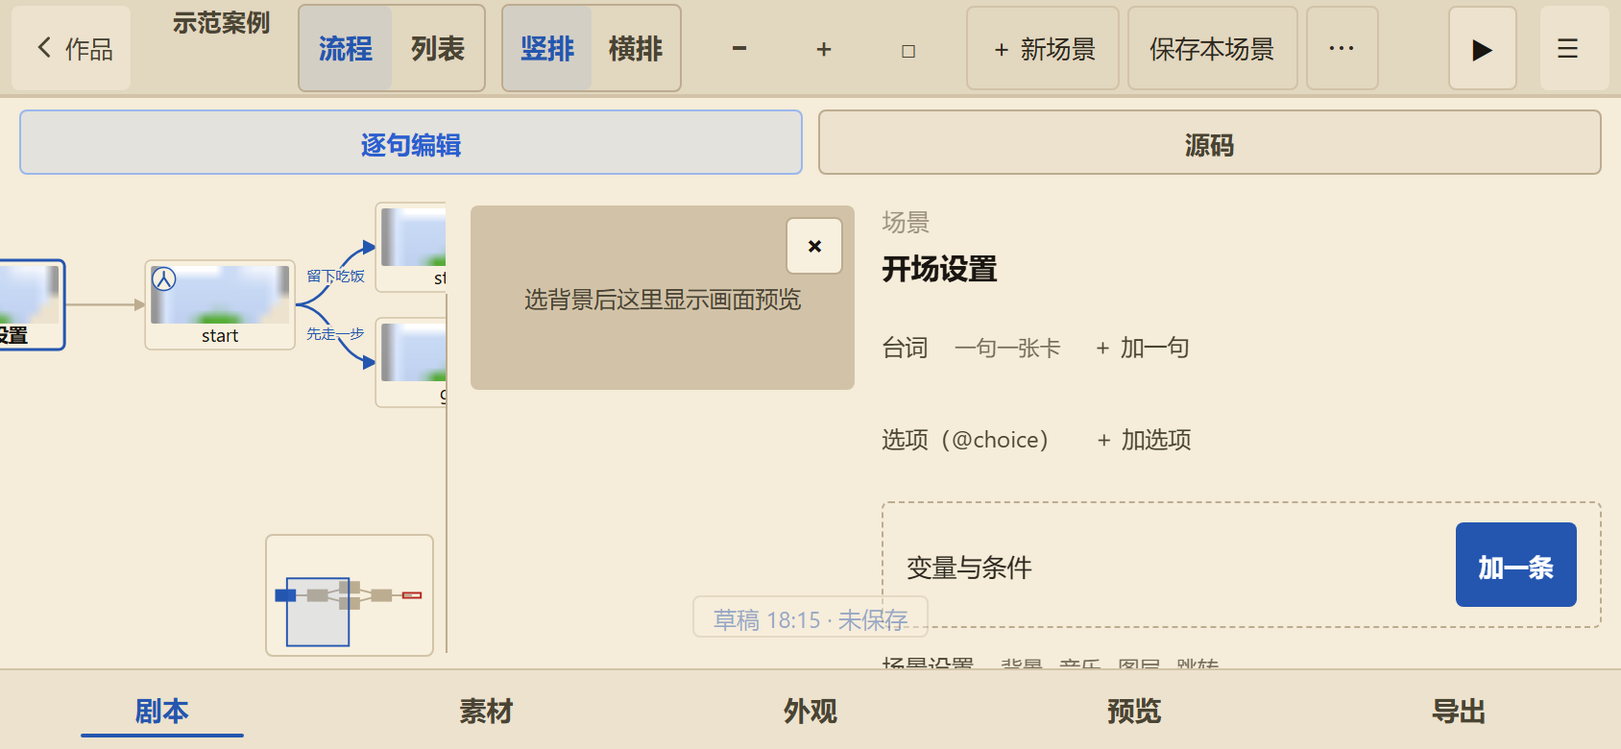
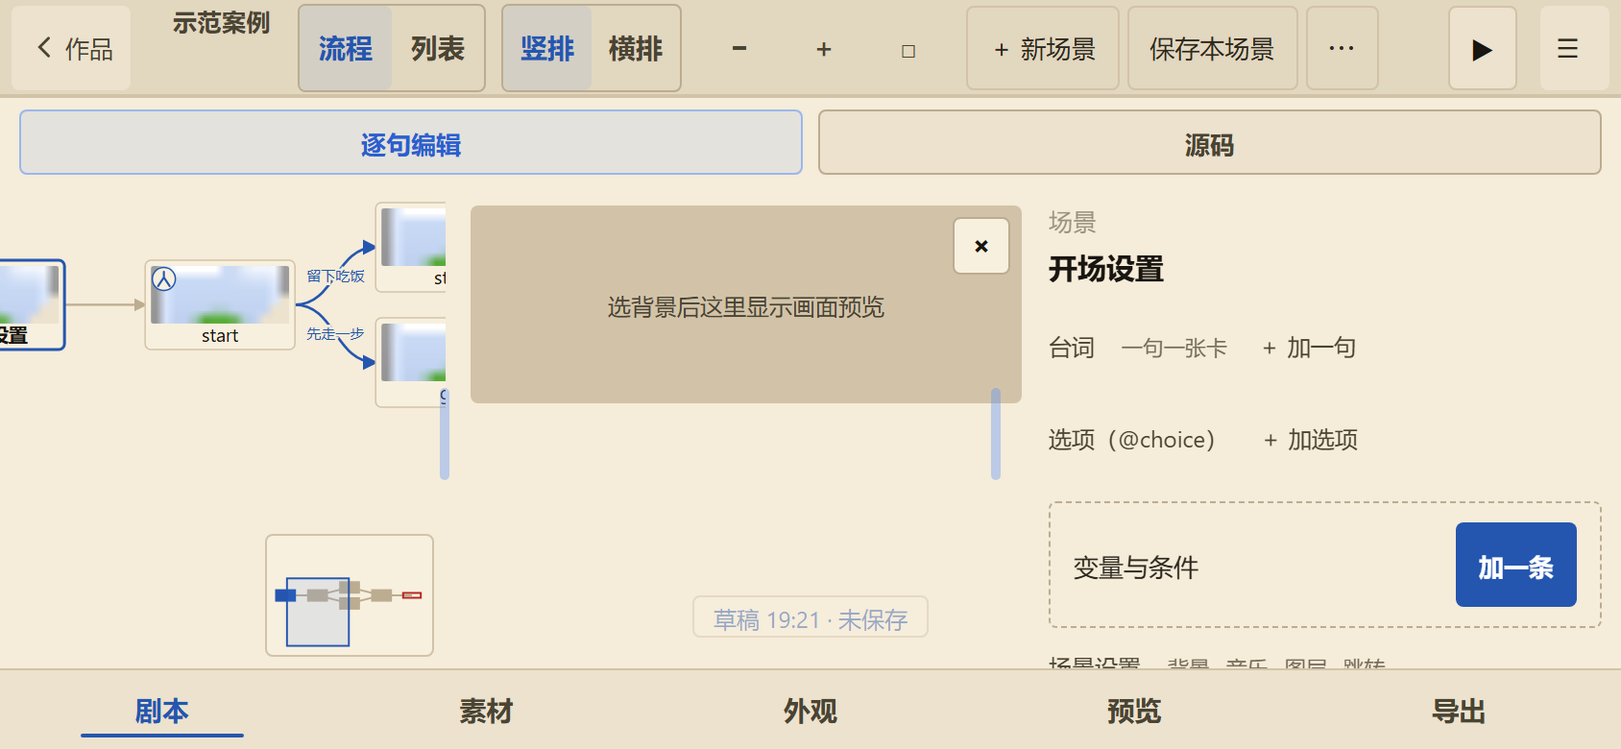
P268 横屏剧本页：左栏和预览两处都能拖宽，把手看得见也按得住（v1.2.68）
用户原话：「场景和预览界面的宽也可以调整，并且可以调整预览窗口的大小比列」
「别的地方的一些窗口也可以发挥主观能动性的调整」「坚决交互问题不要看起来好用起来不好」。

- 预览列宽度独立成 --m-prev（默认 34%，拖过记本机），预览与正文之间加第二条把手；
  列定义改成 var(--m-prev,34%)，不再写死 minmax(170px,34%)。
- 两条把手共用 bindGrip：命中区 22px、touch-action:none（手机上不被滚动/缩放抢）、
  拖动时短条拉长变蓝 + col-resize + 禁选中、双击复位、聚焦后方向键 ±8（Shift ±32）、aria separator。
- 下限有账：预览 ≥170、正文 ≥290；左栏上限从 innerWidth-380 收到 innerWidth-460（预览列也要地方），
  838×390 实测拖到上限正文还剩 253px 台词卡；700×360 左栏最多 240、预览最多 178。
- 空态占位（没选背景）改成跟真舞台同一个高宽比：height:0 + padding-bottom var(--sf-pad,36%)，
  拖宽预览时占位块跟着长高（287→103、322→116），不再是拉宽的空带。
- 预览收起时预览把手一起藏；竖屏两条把手都不出现。

实测（844×390 / 700×360 / 390×844，Playwright 真拖）：prev 287→322→170、rail 232→320、
双击两条都回默认、方向键 287→303 并落盘、stage-off 时预览把手 display:none、三组尺寸 JS 异常 0、溢出审计空。

门禁：pytest 1590 passed / 7 skipped / exit 0（156.15s）、pyright 109=基线 exit 0、探针 26/26 exit 0。

diff --git a/editor/mobile/ui_layout.js b/editor/mobile/ui_layout.js
@@ -34,25 +34,45 @@
     }
   }
 
-  /* ---- P264 横屏分栏：左栏可拖宽、预览可收起、编辑与预览换位 ----
-     用户原话「横屏编辑和预览区换一下位置，预览区可关闭，左边区域收一些可以拖动宽度，自适应做好」。
-     拖动只改 --m-rail，没有任何元素写死 width；收起只给 html 挂 m-stage-off，版式全交给 CSS。 */
-  var RAIL = "myonl:off:railW:v1", STAGE = "myonl:off:stageOff:v1";
+  /* ---- P264/P268 横屏分栏：左栏和预览两处都能拖宽、预览可收起、编辑与预览换位 ----
+     用户原话：「左边区域收一些可以拖动宽度」「场景和预览界面的宽也可以调整」。
+     拖动只改 --m-rail / --m-prev，没有元素写死 width；双击把手复位，方向键 ±8（Shift ±32）。 */
+  var RAIL = "myonl:off:railW:v1", STAGE = "myonl:off:stageOff:v1", PREV = "myonl:off:prevW:v1";
   function railPx() {
     var v = 0; try { v = parseInt(localStorage.getItem(RAIL) || "", 10) || 0; } catch (e) {}
     return v > 0 ? v : 232;
   }
   function stageOff() { try { return localStorage.getItem(STAGE) === "1"; } catch (e) { return false; } }
-  // 左栏最多 320，整块编辑区至少留 380：宽度不够时先压缩左栏，不允许把编辑区挤成一条缝
-  function railMax() { return Math.max(150, Math.min(320, window.innerWidth - 380)); }
+  // 左栏最多 320，整块正文至少留 290（预览列另有下限 170）：宽度不够时先压缩左栏，不允许把正文挤成一条缝
+  function railMax() { return Math.max(150, Math.min(320, window.innerWidth - 460)); }
+  function prevPx() {
+    var v = 0; try { v = parseInt(localStorage.getItem(PREV) || "", 10) || 0; } catch (e) {}
+    return v > 0 ? v : Math.round(window.innerWidth * .34);
+  }
+  // 预览能宽到哪：正文至少 320，且预览框高度不许顶出栏高（高宽比吃 --sf-pad）
+  function padPct() {
+    var v = 0; try { v = parseFloat(getComputedStyle(DE).getPropertyValue("--sf-pad")) || 0; } catch (e) {}
+    return v > 10 && v < 140 ? v : 36;
+  }
+  function prevMax() {
+    var rail = parseInt(DE.style.getPropertyValue("--m-rail"), 10) || railPx();
+    var byBody = window.innerWidth - rail - 290;   // 290 = 正文列下限 + 两侧内边距，实测 844 下正文还剩 253px
+    var byHigh = Math.round((window.innerHeight - 150) * 100 / padPct());
+    return Math.max(170, Math.min(460, byBody, byHigh));
+  }
   function applyPane() {
-    if (!shell()) { chromeSync(false); DE.classList.remove("m-stage-off", "m-graph-on"); DE.style.removeProperty("--m-rail"); gSig = ""; return; }
+    if (!shell()) {
+      chromeSync(false); DE.classList.remove("m-stage-off", "m-graph-on");
+      DE.style.removeProperty("--m-rail"); DE.style.removeProperty("--m-prev"); gSig = ""; return;
+    }
     DE.style.setProperty("--m-rail", Math.min(Math.max(railPx(), 150), railMax()) + "px");
+    DE.style.setProperty("--m-prev", Math.min(Math.max(prevPx(), 170), prevMax()) + "px");
     DE.classList.toggle("m-stage-off", stageOff());
-    // 分栏只在横屏且 ≥700 宽成立（同 @media (orientation:landscape) and (min-width:700px)）；竖屏不许多出手柄和按钮
+    // 分栏只在横屏且 >=700 宽成立（同 @media (orientation:landscape) and (min-width:700px)）；竖屏不许多出手柄和按钮
     var split = window.innerWidth >= 700 && window.innerWidth > window.innerHeight;
-    var g = document.getElementById("mRailGrip"), b = document.getElementById("mStageBtn");
+    var g = document.getElementById("mRailGrip"), b = document.getElementById("mStageBtn"), pg = document.getElementById("mPrevGrip");
     if (g) g.style.display = split ? "" : "none";
+    if (pg) pg.style.display = split && !stageOff() ? "" : "none";
     if (b) {
       b.style.display = split ? "" : "none";
       b.textContent = stageOff() ? "\u9884\u89C8" : "\u00D7";
@@ -64,29 +84,61 @@
     try { localStorage.setItem(STAGE, stageOff() ? "0" : "1"); } catch (e) {}
     applyPane();
   }
+  // 两条把手同一套行为：拖、双击复位、方向键微调；命中区 22px，里头一颗 4x44 的可见短条
+  function bindGrip(g, page, kind) {
+    var rail = kind === "rail", prop = rail ? "--m-rail" : "--m-prev", key = rail ? RAIL : PREV;
+    g.setAttribute("role", "separator"); g.setAttribute("aria-orientation", "vertical");
+    g.setAttribute("tabindex", "0");
+    g.setAttribute("aria-label", rail ? "左栏宽度，拖动调整、双击复位" : "预览宽度，拖动调整、双击复位");
+    function cur() { return parseInt(DE.style.getPropertyValue(prop), 10) || 0; }
+    function lim(w) { return rail ? Math.min(Math.max(w, 150), railMax()) : Math.min(Math.max(w, 170), prevMax()); }
+    function set(w) { DE.style.setProperty(prop, lim(w) + "px"); }
+    function save() {
+      try { localStorage.setItem(key, String(cur())); } catch (err) {}
+      if (rail) {
+        // 左栏变宽会让预览顶出正文下限：按新的 rail 重新夹一次
+        var pw = parseInt(DE.style.getPropertyValue("--m-prev"), 10) || prevPx();
+        DE.style.setProperty("--m-prev", Math.min(Math.max(pw, 170), prevMax()) + "px");
+        gSig = ""; renderGraph();
+      }
+    }
+    var x0 = 0, base = 0;
+    function move(ev) { set(base + (ev.clientX - x0)); }
+    function up() {
+      page.classList.remove("m-dragging"); g.classList.remove("on");
+      g.removeEventListener("pointermove", move); g.removeEventListener("pointerup", up); g.removeEventListener("pointercancel", up);
+      save();
+    }
+    g.addEventListener("pointerdown", function (e) {
+      e.preventDefault(); e.stopPropagation();
+      try { g.setPointerCapture(e.pointerId); } catch (err) {}
+      page.classList.add("m-dragging"); g.classList.add("on");
+      x0 = e.clientX; base = cur();
+      g.addEventListener("pointermove", move); g.addEventListener("pointerup", up); g.addEventListener("pointercancel", up);
+    });
+    g.addEventListener("dblclick", function (e) {
+      e.preventDefault(); e.stopPropagation();
+      try { localStorage.removeItem(key); } catch (err) {}
+      applyPane(); if (rail) { gSig = ""; renderGraph(); }
+    });
+    g.addEventListener("keydown", function (e) {
+      var d = e.key === "ArrowLeft" ? -1 : e.key === "ArrowRight" ? 1 : 0;
+      if (!d) return;
+      e.preventDefault(); set(cur() + d * (e.shiftKey ? 32 : 8)); save();
+    });
+  }
   function ensurePane() {
     var p = document.getElementById("scenePage");
     if (!p) return;
     if (!document.getElementById("mRailGrip")) {
       var g = document.createElement("div");
-      g.id = "mRailGrip"; g.className = "m-rail-grip"; g.setAttribute("role", "separator");
-      p.appendChild(g);
-      g.addEventListener("pointerdown", function (e) {
-        e.preventDefault(); e.stopPropagation();
-        try { g.setPointerCapture(e.pointerId); } catch (err) {}
-        p.classList.add("m-dragging");
-        function move(ev) {
-          var w = Math.min(Math.max(Math.round(ev.clientX - p.getBoundingClientRect().left), 150), railMax());
-          DE.style.setProperty("--m-rail", w + "px");
-        }
-        function up() {
-          p.classList.remove("m-dragging");
-          g.removeEventListener("pointermove", move); g.removeEventListener("pointerup", up);
-          try { localStorage.setItem(RAIL, String(parseInt(DE.style.getPropertyValue("--m-rail"), 10) || 232)); } catch (err) {}
-          gSig = ""; renderGraph();   // 栏宽变了，流程图按新宽度重新看全局
-        }
-        g.addEventListener("pointermove", move); g.addEventListener("pointerup", up);
-      });
+      g.id = "mRailGrip"; g.className = "m-rail-grip";
+      p.appendChild(g); bindGrip(g, p, "rail");
+    }
+    if (!document.getElementById("mPrevGrip")) {
+      var pg = document.createElement("div");
+      pg.id = "mPrevGrip"; pg.className = "m-prev-grip";
+      p.appendChild(pg); bindGrip(pg, p, "prev");
     }
     var sw = p.querySelector(".sf-stage-wrap");
     if (sw && !document.getElementById("mStageBtn")) {

diff --git a/editor/editor.css b/editor/editor.css
@@ -2999,7 +2999,8 @@ input[type="color"] {
   html.m-shell .scene-page .scene-body { flex-direction: row; }
   html.m-shell .scene-page .scene-list { width: var(--m-rail, 232px); flex: 0 0 var(--m-rail, 232px); border-right: 1px solid var(--surface0); }
   /* P264 换位：预览在左、编辑在右；左栏宽度只吃 --m-rail（拖动由 ui_layout 改写它） */
-  html.m-shell #scenePage.m-detail #sceneForm { grid-template-columns: minmax(170px, 34%) minmax(0, 1fr) !important; }
+  /* P268 预览列宽度只吃 --m-prev（拖动由 ui_layout 的 #mPrevGrip 改写它，默认 34% 宽） */
+  html.m-shell #scenePage.m-detail #sceneForm { grid-template-columns: var(--m-prev, 34%) minmax(0, 1fr) !important; }
   html.m-shell #scenePage #sceneForm > * { grid-column: 2; } html.m-shell #scenePage #sceneForm > .sf-actions { grid-column: 1 / -1; }
   /* P265 预览顶边与正文第一行对齐：P113 给它 sticky top:72px，不滚动也凭空下沉 72px（用户：「不平行」）。
      实测 top 给多少就下沉多少（滚动容器是表单自己，12px 内边距不算在里头），所以必须是 0 */
@@ -3028,8 +3029,15 @@ input[type="color"] {
   html.m-shell.m-stage-off #scenePage.m-detail #sceneForm { grid-template-columns: 34px minmax(0, 1fr) !important; }
   html.m-shell.m-stage-off #scenePage .sf-stage-wrap { position: relative !important; align-self: start !important; height: 96px; min-height: 0; padding: 0 !important; border-right: 1px solid var(--surface1); background: none !important; }
   html.m-shell.m-stage-off #scenePage .sf-stage-wrap > :not(.m-stage-btn), html.m-shell.m-stage-off #scenePage .sf-stage-wrap.m-stage-empty::after { display: none !important; }
-  .m-rail-grip { position: absolute; z-index: 6; left: calc(var(--m-rail, 232px) - 5px); top: 94px; bottom: 0; width: 11px; cursor: col-resize; background: transparent; }
-  .m-rail-grip::after { content: ""; position: absolute; left: 5px; top: 8px; bottom: 8px; width: 1px; background: var(--surface1); }
+  /* P268 两条把手（左栏 / 预览）：命中区 22px，看得见的是中间一颗 4x44 短条；拖动时拉长变蓝。
+     触摸下必须 touch-action:none，否则手指一压就被滚动/缩放抢走（「看起来好用起来不好」） */
+  .m-rail-grip, .m-prev-grip { position: absolute; z-index: 6; top: 52px; bottom: 0; width: 22px; margin-left: -11px; cursor: col-resize; background: transparent; touch-action: none; outline: none; }
+  .m-rail-grip { left: var(--m-rail, 232px); }
+  .m-prev-grip { left: calc(var(--m-rail, 232px) + var(--m-prev, 34%)); }
+  .m-rail-grip::after, .m-prev-grip::after { content: ""; position: absolute; left: 8px; top: 50%; width: 5px; height: 48px; margin-top: -24px; border-radius: 3px; background: rgba(79, 140, 255, .35); transition: height .12s, margin-top .12s, background .12s; }
+  .m-rail-grip:hover::after, .m-prev-grip:hover::after { background: rgba(79, 140, 255, .6); }
+  .m-rail-grip.on::after, .m-prev-grip.on::after { height: 76px; margin-top: -38px; background: rgba(79, 140, 255, .9); }
+  html.m-shell.m-dragging, html.m-shell.m-dragging * { cursor: col-resize !important; user-select: none; }
   .m-stage-btn { position: absolute; right: 6px; top: 6px; z-index: 7; min-width: 30px; height: 30px; padding: 0 8px; border-radius: 4px; border: 1px solid var(--surface1); background: var(--card-bg); color: var(--text); font-size: 14px; line-height: 1; }
   /* P265：收起后竖排的「预览」贴顶，与正文「场景」两个字齐平（原来居中，比「场景」低一截 —— 用户：「不平行」） */
   html.m-shell.m-stage-off .m-stage-btn { position: absolute; inset: 0; width: 100%; height: 100%; min-width: 0; border: 0; border-radius: 0; background: none; color: var(--text); opacity: .6; writing-mode: vertical-rl; text-orientation: upright; letter-spacing: 3px; font-size: 12px; text-align: left; padding: 5px 0 0; }

diff --git a/editor/ui-fix.css b/editor/ui-fix.css
@@ -287,8 +287,10 @@ html.kb-open .m-sheet-body { bottom: var(--kb-h, 0px) !important; }
   #scenePage .sf-stage-hint { display: none; }
   /* 还没选背景时舞台是空的（hint 又被藏了），整块会塌成一个点：
      台词卡顶上突然什么都没有，看不出这里本来该有画面。撑一块占位并把话说清楚。 */
+  /* P268：空态占位也要跟真舞台同一个高宽比，否则把预览拖宽只多出一条空带，
+     用户看不出「宽了以后画面会长高」（拖宽的目的就是看清楚画面） */
   #scenePage .sf-stage-wrap.m-stage-empty {
-    min-height: 96px; position: relative;
+    height: 0; min-height: 0; padding-bottom: var(--sf-pad, 36%); position: relative;
     background: var(--surface0); border-radius: 4px;
   }
   #scenePage .sf-stage-wrap.m-stage-empty .sf-stage { display: none; }

diff --git a/tests/test_p268_pane_widths.py b/tests/test_p268_pane_widths.py
@@ -1,0 +1,69 @@
+"""P268：横屏剧本页左栏与预览两处宽度可拖、双击复位、方向键微调、宽度记住。
+
+用户原话：「场景和预览界面的宽也可以调整，并且可以调整预览窗口的大小比列」「坚决交互问题不要看起来好用起来不好」。
+
+钉住的事（844×390 / 700×360 / 390×844 实测）：
+    1. 预览列宽度只吃 --m-prev（默认 34%，拖过就记本机）；左栏仍是 --m-rail，下限 150、上限 320；
+    2. 两条把手同一套行为：22px 命中区、touch-action:none（否则手机上被滚动/缩放抢走）、双击复位、方向键 ±8（Shift ±32）；
+    3. 预览与正文的下限：预览 ≥170、正文 ≥290（844 下拖到上限，正文还剩 253px 台词卡）；
+    4. 预览收起时预览把手跟着消失；竖屏两条把手都不许出现；
+    5. 空态占位与真舞台同一个高宽比（--sf-pad），拖宽预览要让画面真的长起来。
+"""
+
+from pathlib import Path
+
+import pytest
+
+pytestmark = [pytest.mark.unit]
+
+ROOT = Path(__file__).resolve().parents[1]
+CSS = (ROOT / "editor" / "editor.css").read_text(encoding="utf-8")
+FIX = (ROOT / "editor" / "ui-fix.css").read_text(encoding="utf-8")
+LAYOUT = (ROOT / "editor" / "mobile" / "ui_layout.js").read_text(encoding="utf-8")
+
+
+def test_two_widths_have_own_keys_and_bounds():
+    assert 'var RAIL = "myonl:off:railW:v1", STAGE = "myonl:off:stageOff:v1", PREV = "myonl:off:prevW:v1";' in LAYOUT
+    assert 'try { v = parseInt(localStorage.getItem(PREV) || "", 10) || 0; } catch (e) {}' in LAYOUT
+    assert "return v > 0 ? v : Math.round(window.innerWidth * .34);" in LAYOUT
+    assert "function railMax() { return Math.max(150, Math.min(320, window.innerWidth - 460)); }" in LAYOUT
+    # 正文列下限 290（844 下还剩 253px 台词卡），预览自己 ≥170
+    assert "var byBody = window.innerWidth - rail - 290;" in LAYOUT
+    assert "return Math.max(170, Math.min(460, byBody, byHigh));" in LAYOUT
+    assert 'DE.style.setProperty("--m-prev", Math.min(Math.max(prevPx(), 170), prevMax()) + "px");' in LAYOUT
+
+
+def test_grips_share_one_behaviour():
+    # 一条把手：拖、双击复位、方向键微调
+    assert "function bindGrip(g, page, kind) {" in LAYOUT
+    assert 'var rail = kind === "rail", prop = rail ? "--m-rail" : "--m-prev", key = rail ? RAIL : PREV;' in LAYOUT
+    assert "g.addEventListener(\"dblclick\"," in LAYOUT
+    assert "try { localStorage.removeItem(key); } catch (err) {}" in LAYOUT
+    assert 'var d = e.key === "ArrowLeft" ? -1 : e.key === "ArrowRight" ? 1 : 0;' in LAYOUT
+    assert "set(cur() + d * (e.shiftKey ? 32 : 8)); save();" in LAYOUT
+    assert "g.setAttribute(\"aria-orientation\", \"vertical\");" in LAYOUT
+    assert 'g.id = "mPrevGrip"; pg.className = "m-prev-grip";' in LAYOUT
+    # 预览把手在预览收起 / 竖屏时跟着藏
+    assert 'if (pg) pg.style.display = split && !stageOff() ? "" : "none";' in LAYOUT
+
+
+def test_grip_is_grabbable_on_touch():
+    b = CSS[CSS.index("  .m-rail-grip, .m-prev-grip {"):CSS.index("  html.m-shell.m-dragging")]
+    assert "width: 22px" in b and "margin-left: -11px" in b
+    assert "touch-action: none;" in b
+    assert "top: 52px" in b
+    assert "background: rgba(79, 140, 255, .35);" in b
+    assert ".m-rail-grip.on::after, .m-prev-grip.on::after { height: 76px;" in b
+    assert "html.m-shell.m-dragging, html.m-shell.m-dragging * { cursor: col-resize !important; user-select: none; }" in CSS
+
+
+def test_columns_read_only_the_vars():
+    assert "html.m-shell #scenePage.m-detail #sceneForm { grid-template-columns: var(--m-prev, 34%) minmax(0, 1fr) !important; }" in CSS
+    assert "minmax(170px, 34%)" not in CSS
+    assert ".m-prev-grip { left: calc(var(--m-rail, 232px) + var(--m-prev, 34%)); }" in CSS
+    assert "html.m-shell.m-stage-off #scenePage.m-detail #sceneForm { grid-template-columns: 34px minmax(0, 1fr) !important; }" in CSS
+
+
+def test_empty_stage_follows_ratio():
+    assert "padding-bottom: var(--sf-pad, 36%); position: relative;" in FIX
+    assert "height: 0; min-height: 0; padding-bottom: var(--sf-pad, 36%);" in FIX

diff --git a/tests/test_p173_file_budget.py b/tests/test_p173_file_budget.py
@@ -52,8 +52,8 @@ FILE_BUDGET: dict[str, int] = {
     "editor/editor_tryplay.js": 172, # P201 编辑器内整篇试玩：把导出的成品 HTML 塞进全屏 iframe（与导出共用一条构建），新文件
     "editor/editor_shell.js": 900,   # P197b 底栏「导出」收成导出页 + 素材先关覆盖层 +9（874→883）；P258 say() 加兜底提示条 +10（887→897）——单文件版没有 window.toast，菜单里的导出提示原本全部静默
     "editor/mobile/ui_polish.js": 548,   # P188 主链路收口 + P189 结构两层（模式槽/预览浮条/空态合成/外观入口）+ P190 场景页时序兜底（场景列表重扫 + 空态恢复 + 空舞台占位 + 重扫不弹 toast）；P194 移进 mobile/，路径随搬迁改
-    "editor/ui-fix.css": 325,     # P186 手机外壳 + P188 主链路样式 + P189 结构两层（浮条/场景 order/外观预览置顶）+ P190 空舞台占位（宽度显式给，否则 padding 撑高的舞台会塌成 0），新文件
-    "editor/editor.css": 3441,   # P267 小总览 / 竖横排开关 / 正文行距 +8；P265 流程图样式 / 预览顶边齐平 / 场景页头并进顶栏 +41；P264 横屏把预览挪到左、左栏宽度走 --m-rail、预览收起条 +12   # P179 首页去大卡后布局收口 +5；P185 顶部安全带（挖孔/侧边 cutout）+18；P190 +25 手机场景两态真正分开（#sceneForm 的 id 级 display 压过 class 级 none）+ 横屏列表不再被表单挤成 29px + 横屏右侧不留缝
+    "editor/ui-fix.css": 327,     # P186 手机外壳 + P188 主链路样式 + P189 结构两层（浮条/场景 order/外观预览置顶）+ P190 空舞台占位（宽度显式给，否则 padding 撑高的舞台会塌成 0），新文件；P268 空舞台改成跟真舞台同比例（+3 行：height:0/min-height:0/padding-bottom 一行落点 + 两行注释）
+    "editor/editor.css": 3449,   # P267 小总览 / 竖横排开关 / 正文行距 +8；P265 流程图样式 / 预览顶边齐平 / 场景页头并进顶栏 +41；P264 横屏把预览挪到左、左栏宽度走 --m-rail、预览收起条 +12   # P179 首页去大卡后布局收口 +5；P185 顶部安全带（挖孔/侧边 cutout）+18；P190 +25 手机场景两态真正分开（#sceneForm 的 id 级 display 压过 class 级 none）+ 横屏列表不再被表单挤成 29px + 横屏右侧不留缝
     "engine/editor.py": 3063,   # P199a 加 /editor_lint.js /editor_find.js /i18n.js 三条路由与 serve 方法（+15，3043→3058）；P201 加 /editor_tryplay.js 路由与 _serve_tryplay_js（+5，3058→3063）；P198 新增 /editor_draft.js 路由与 _serve_draft_js（+5，3038→3043）；P184b asset_thumb.js 静态路由 +1；P188 ui_polish.js 路由 +1
     "engine/parser.py": 1080,
 }

diff --git a/tests/test_p264_pane_swap.py b/tests/test_p264_pane_swap.py
@@ -30,7 +30,8 @@ def _block() -> str:
 
 def test_preview_moved_left_editor_right():
     b = _block()
-    assert "html.m-shell #scenePage.m-detail #sceneForm { grid-template-columns: minmax(170px, 34%) minmax(0, 1fr) !important; }" in b
+    # P268：列宽改吃 --m-prev（默认 34%），拖动见 test_p268_pane_widths
+    assert "html.m-shell #scenePage.m-detail #sceneForm { grid-template-columns: var(--m-prev, 34%) minmax(0, 1fr) !important; }" in b
     assert "html.m-shell #scenePage #sceneForm > * { grid-column: 2; }" in b
     assert "html.m-shell #scenePage #sceneForm > .sf-stage-wrap { grid-column: 1; top: 0; }" in b   # P265：top 必须是 0
     # 底部的保存/删除按钮原来横跨两列，换位后仍要横跨，否则会被塞进 170px 的预览列
@@ -51,11 +52,14 @@ def test_preview_collapse_rules():
 
 
 def test_drag_geometry_and_persistence():
-    assert 'var RAIL = "myonl:off:railW:v1", STAGE = "myonl:off:stageOff:v1";' in LAYOUT
+    # P268：加预览列后三样东西要一起存在，否则左栏拖宽会把正文挤没
+    assert 'var RAIL = "myonl:off:railW:v1", STAGE = "myonl:off:stageOff:v1", PREV = "myonl:off:prevW:v1";' in LAYOUT
     assert 'id = "mRailGrip"' in LAYOUT
     assert "Math.min(Math.max(railPx(), 150), railMax())" in LAYOUT
-    assert "Math.max(150, Math.min(320, window.innerWidth - 380))" in LAYOUT
-    assert 'localStorage.setItem(RAIL' in LAYOUT and 'localStorage.setItem(STAGE' in LAYOUT
+    assert "Math.max(150, Math.min(320, window.innerWidth - 460))" in LAYOUT
+    # 宽度都要落到本机：P268 起两条把手共用 setItem(key, cur())，key 是 RAIL / PREV 之一
+    assert 'try { localStorage.setItem(key, String(cur())); } catch (err) {}' in LAYOUT
+    assert 'try { localStorage.setItem(STAGE, stageOff() ? "0" : "1"); } catch (e) {}' in LAYOUT
 
 
 def test_split_gate_hides_controls_outside_landscape():

diff --git a/tests/test_p258_budget_gaps.py b/tests/test_p258_budget_gaps.py
@@ -36,7 +36,7 @@ HOT_FILES: dict[str, int] = {
     "editor/mobile/editor_export.js": 653,
     "editor/mobile/ui-layout.css": 647,
     "editor/mobile/home.css": 348,
-    "editor/mobile/ui_layout.js": 577,  # P267 竖横排 + 小总览 +45；P265 蓝图式流程图 + 页头并进顶栏 +270（新文件接线面大，故放这里）
+    "editor/mobile/ui_layout.js": 629,  # P267 竖横排 + 小总览 +45；P265 蓝图式流程图 + 页头并进顶栏 +270（新文件接线面大，故放这里）
     "editor/mobile/editor_dialog.js": 157,
     "web/myonl-core.js": 412,
     "web/myonl-layout.js": 150,
@@ -48,7 +48,7 @@ HOT_FILES: dict[str, int] = {
 
 # 区总量：允许区内互相搬行，区总不许涨。
 AREA_CAP: dict[str, int] = {
-    "editor/mobile": 5607,
+    "editor/mobile": 5659,
     "web": 4722,
 }
 

diff --git a/tests/test_p265_flow_graph.py b/tests/test_p265_flow_graph.py
@@ -75,7 +75,7 @@ def test_scene_head_merged_into_topbar():
     assert 'var on = !!(split && p && mb && more && p.classList.contains("open"));' in LAYOUT
     assert "for (var i = els.length - 1; i >= 0; i--)" in LAYOUT       # 倒着放回去
     assert "graphSync(); chromeSync(split);" in LAYOUT
-    assert "if (!shell()) { chromeSync(false);" in LAYOUT
+    assert "chromeSync(false); DE.classList.remove(\"m-stage-off\", \"m-graph-on\");" in LAYOUT
     assert "html.m-shell.m-chrome-on #scenePage .cp-head { display: none !important; }" in b
     assert "html.m-shell .menubar > #sceneAdd, html.m-shell .menubar > #sceneSave {" in b
     assert "html.m-shell .menubar > .scn-more {" in b

diff --git a/engine/_version.py b/engine/_version.py
@@ -22,4 +22,4 @@ from __future__ import annotations
 # 与 git tag 完全一致（tag 去掉前缀 v）。三段的 x.y.z，不许带 rc/beta 后缀：
 # Android 的 versionName 与 exe 安装包名都直接拿它，带后缀会导致两台设备显示的
 # 版本号对不上，也违背「exe 与 apk 匹配接轨」。
-VERSION = "1.2.67"
+VERSION = "1.2.68"

diff --git a/README.md b/README.md
@@ -1,7 +1,7 @@
 # MYONL · 手机上的视觉小说编辑器
 
 [![tests](https://github.com/123456789556/myonl/actions/workflows/tests.yml/badge.svg?branch=main)](https://github.com/123456789556/myonl/actions/workflows/tests.yml)
-![Release](https://img.shields.io/badge/release-v1.2.67-blue)
+![Release](https://img.shields.io/badge/release-v1.2.68-blue)
 ![License](https://img.shields.io/badge/License-MIT-green)
 ![Platform](https://img.shields.io/badge/platform-Android%207.0%2B%20%C2%B7%20Windows%20%C2%B7%20Web-19b6a3)
 ![Offline](https://img.shields.io/badge/offline-100%25-2ea44f)
@@ -297,9 +297,9 @@ python tools/pack_apk.py --game dist/single/你的作品.html
 
 ## 装它
 
-**[⬇ 下载 MYONL-v1.2.67.apk](https://github.com/123456789556/myonl/releases/download/v1.2.67/MYONL-v1.2.67.apk)** · 安卓 7.0 以上 · 手机 / 折叠屏 / 平板都能用，横竖屏自适应
+**[⬇ 下载 MYONL-v1.2.68.apk](https://github.com/123456789556/myonl/releases/download/v1.2.68/MYONL-v1.2.68.apk)** · 安卓 7.0 以上 · 手机 / 折叠屏 / 平板都能用，横竖屏自适应
 
-**[⬇ 下载 MYONL-v1.2.67-editor-win.zip](https://github.com/123456789556/myonl/releases/download/v1.2.67/MYONL-v1.2.67-editor-win.zip)** · Windows 10/11 · 解压双击 `editor.exe`，不用装 Python
+**[⬇ 下载 MYONL-v1.2.68-editor-win.zip](https://github.com/123456789556/myonl/releases/download/v1.2.68/MYONL-v1.2.68-editor-win.zip)** · Windows 10/11 · 解压双击 `editor.exe`，不用装 Python
 
 装好打开就是书架，点「新建作品」开始。底部「导出」有两条出口：
 自包含 `.html`（发微信对方就能玩）和 APK（装到手机上就是一个独立 App）。
@@ -338,7 +338,7 @@ python tools/pack_apk.py --game dist/single/你的作品.html
 
 只想做游戏的话，上面那些就够了。下面是技术细节。
 
-> 全量测试当前 **1585 passed, 7 skipped、退出码 0**（2026-11-25 本机已复跑；数随版本变，以最新一次 `pytest -q` 为准）。
+> 全量测试当前 **1590 passed, 7 skipped、退出码 0**（2026-11-25 本机已复跑；数随版本变，以最新一次 `pytest -q` 为准）。
 > 界面另外有一条机器探针 `tools/ui_probe/probe_shell.py`（26 条，手机 390×844 / 横屏 844×390 / 桌面 1440×900），
 > CI 里 push 改 `editor/**`、`web/**` 就跟着跑，失败会贴出是哪一条不符并留截图 —— 之前的界面验证全在人手上，这是补上的那个洞。
 

diff --git a/docs/CHANGELOG.md b/docs/CHANGELOG.md
@@ -8,6 +8,18 @@
 
 ---
 
+## 2026-11-25 · v1.2.68
+
+**横屏剧本页：左栏和预览两处都能拖宽，把手看得见也按得住。**
+
+- 预览列宽度也能拖了：预览和正文之间的蓝短条就是把手，拖 170–322（844 宽；左栏收窄后可到 404），默认 34%，松手记住。
+- 两条把手一套行为：命中区 22px、拖动时短条拉长变蓝、光标变 col-resize、双击复位、聚焦后方向键 ±8（Shift ±32）。
+  触摸下 `touch-action: none`，手指压上去不会被页面滚动抢走。
+- 下限有账：预览 ≥170、正文 ≥290（844 下拖到上限，台词卡还剩 253px），左栏上限从 320 收到「整屏 − 460」，
+  窄横屏（700）左栏只能到 240。
+- 还没选背景时的空态占位改成跟真舞台同一个高宽比（`--sf-pad`）：拖宽预览，占位块会跟着长高，不再是拉宽的空带。
+- 预览收起时预览把手一起藏起来；竖屏两条把手都不出现。
+
 ## 2026-11-25 · v1.2.67
 
 **这一版只动横屏剧本页的流程图和正文行距：蓝图能竖排也能横排，右下角多了一个小总览。**

diff --git a/docs/版本规则.md b/docs/版本规则.md
@@ -193,6 +193,7 @@ git tag -a v1.1.0 && git push tag      # 打 tag，CI 出包
 | v1.2.65 | 横屏剧本页把预览挪到编辑左边、预览可收起、左栏可拖宽（150–320，记住）；竖屏不受影响 |
 | v1.2.66 | 横屏剧本页左栏换成蓝图式流程图（流程 / 列表可切、可缩放）；场景页头并进顶栏，正文从 145px 起变成 95px；预览顶边与正文齐平 |
 | v1.2.67 | 流程图可竖排可横排（记住）；放大后右下角出小总览可点着跳；幕名到台词的空白收紧（台词卡上移 26px） |
+| v1.2.68 | 横屏剧本页左栏与预览两处都能拖宽（双击复位、方向键微调、松手记住）；空态占位跟真舞台同比例，拖宽会跟着长高 |
 
 > v1.2.15–v1.2.21、v1.2.29–v1.2.45 在 `CHANGELOG.md` 里没有正文条目（当时只写了 tag message，
 > 发布说明靠 Actions 的 Release body）。上面这些行的依据是 annotated tag 的 tag message，不是回忆。
